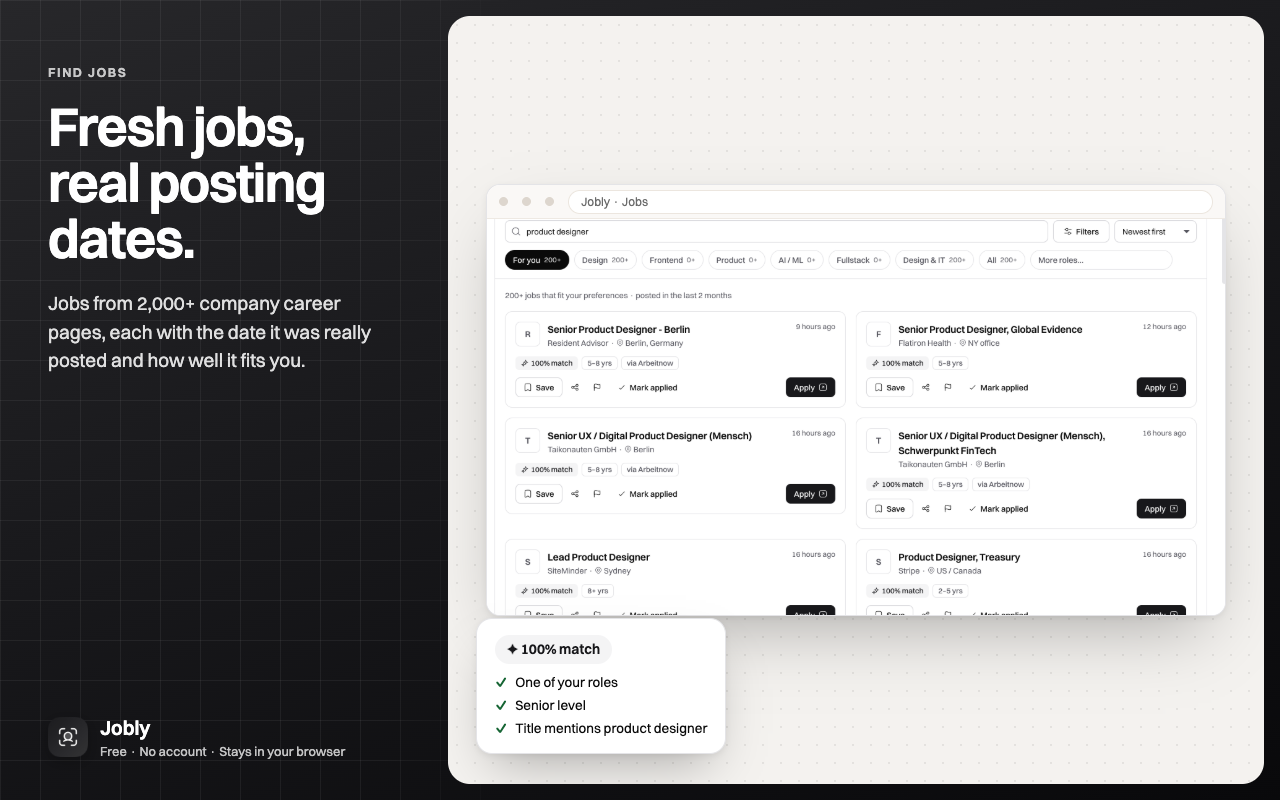
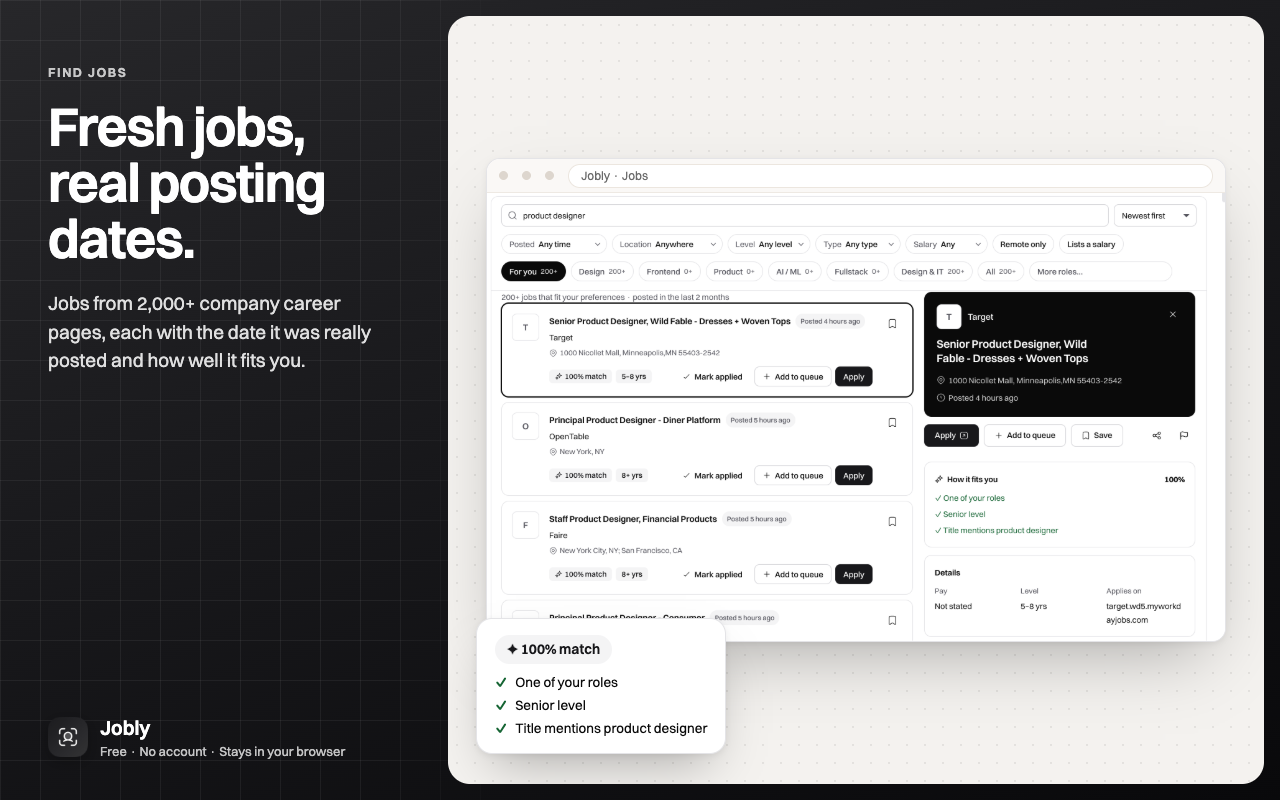
Jobly 1.5.0: store packet, screenshots, privacy for the apply queue
- Version 1.5.0; store-assets/jobly-extension-1.5.0.zip; docs/store-listing-1.5.md
- Store screenshots v1.5: jobs, apply queue, apply assist, resume ATS check, people
- Website tour images from the new screens; privacy and security pages cover the apply queue's site access
- Job cards: actions in a bottom row so titles don't wrap early
- Apply queue: changes run one at a time; a page that fails to load stops with a reason

diff --git a/extension/src/background/service-worker.ts b/extension/src/background/service-worker.ts
@@ -307,7 +307,12 @@ const QUEUE_ALARM = 'jobly-apply-queue';
 const MAX_OPEN = 6;          // application tabs open at once (being prepared + waiting for the user)
 const STALE_MS = 75_000;     // no word from a tab this long while opening or reading: no form there
 
-async function patchQueue(match: (x: QueueItem) => boolean, patch: Partial<QueueItem>): Promise<QueueItem | null> {
+// Every change to the queue runs one after another: two tabs reporting at once must not overwrite each other
+let queueLock: Promise<unknown> = Promise.resolve();
+const locked = <T>(fn: () => Promise<T>): Promise<T> => { const run = queueLock.then(fn, fn); queueLock = run.catch(() => undefined); return run; };
+
+const patchQueue = (match: (x: QueueItem) => boolean, patch: Partial<QueueItem>) => locked(() => patchQueueNow(match, patch));
+async function patchQueueNow(match: (x: QueueItem) => boolean, patch: Partial<QueueItem>): Promise<QueueItem | null> {
   const list = await loadQueue();
   const i = list.findIndex(match);
   if (i < 0) return null;
@@ -318,7 +323,8 @@ async function patchQueue(match: (x: QueueItem) => boolean, patch: Partial<Queue
   return next;
 }
 
-async function pumpQueue(): Promise<void> {
+const pumpQueue = () => locked(pumpQueueNow);
+async function pumpQueueNow(): Promise<void> {
   if (!(await readKey<boolean>(QUEUE_RUN))) return;
   const list = await loadQueue();
   const active = list.filter((x) => ACTIVE.includes(x.state)).length;
@@ -330,20 +336,26 @@ async function pumpQueue(): Promise<void> {
     if (slots <= 0) break;
     const origin = `${new URL(item.url).origin}/*`;
     if (!(await chrome.permissions.contains({ origins: [origin] }))) {
-      await patchQueue((x) => x.id === item.id, { state: 'stopped', note: 'Jobly needs your OK to open this site. Press Start again.' });
+      await patchQueueNow((x) => x.id === item.id, { state: 'stopped', note: 'Jobly needs your OK to open this site. Press Start again.' });
       continue;
     }
     // A blank tab first, then the job: Jobly knows the tab before its page starts loading
     const tab = await chrome.tabs.create({ url: 'about:blank', active: false });
-    await patchQueue((x) => x.id === item.id, { state: 'opening', note: '', tabId: tab.id ?? null, needs: [], filled: 0 });
-    if (tab.id != null) await chrome.tabs.update(tab.id, { url: item.url });
+    await patchQueueNow((x) => x.id === item.id, { state: 'opening', note: '', tabId: tab.id ?? null, needs: [], filled: 0 });
+    if (tab.id != null) {
+      // let the blank tab settle before it loads the job page
+      for (let i = 0; i < 10; i++) { const t = await chrome.tabs.get(tab.id).catch(() => null); if (!t || t.status === 'complete') break; await new Promise((r) => setTimeout(r, 100)); }
+      await new Promise((r) => setTimeout(r, 300));
+      await chrome.tabs.update(tab.id, { url: item.url }).catch(() => null);
+    }
     slots--;
   }
   if (!(await chrome.alarms.get(QUEUE_ALARM))) await chrome.alarms.create(QUEUE_ALARM, { periodInMinutes: 0.5 });
 }
 
 /** Tabs that went quiet: nothing to fill there. */
-async function checkQueue(): Promise<void> {
+const checkQueue = () => locked(checkQueueNow);
+async function checkQueueNow(): Promise<void> {
   const list = await loadQueue();
   const now = Date.now();
   let changed = false;
@@ -353,7 +365,7 @@ async function checkQueue(): Promise<void> {
     }
   }
   if (changed) await storeQueue(list);
-  await pumpQueue();
+  await pumpQueueNow();
 }
 
 async function injectAuto(tabId: number, itemId: string): Promise<void> {
@@ -368,7 +380,12 @@ async function injectAuto(tabId: number, itemId: string): Promise<void> {
 }
 
 chrome.tabs.onUpdated.addListener((tabId, info, tab) => {
-  if (info.status !== 'complete' || !/^https?:/.test(tab.url ?? '')) return;
+  if (info.status !== 'complete') return;
+  if (/^chrome-error:/.test(tab.url ?? '')) {
+    void patchQueue((x) => x.tabId === tabId && ACTIVE.includes(x.state), { state: 'stopped', note: "The page didn't load. Check your connection and use Try again." }).then((x) => { if (x) void pumpQueue(); });
+    return;
+  }
+  if (!/^https?:/.test(tab.url ?? '')) return;
   void loadQueue().then(async (list) => {
     const item = list.find((x) => x.tabId === tabId && (ACTIVE.includes(x.state) || WAITING.includes(x.state)));
     if (!item) return;

diff --git a/extension/src/components/JobCard.tsx b/extension/src/components/JobCard.tsx
@@ -102,7 +102,8 @@ export const JobCard: React.FC<JobCardProps> = ({ job, onToggleSave, onSelect, s
             {job.work_mode && WORK_MODE[job.work_mode] && <span>{WORK_MODE[job.work_mode]}</span>}
             {salary && <span><Briefcase size={13} aria-hidden="true" /> {salary}</span>}
           </p>
-          <div className="job-tags">
+          <div className="job-foot">
+            <div className="job-tags">
             {match
               ? <span className={`badge match-badge ${match.percent >= 75 ? 'badge-brand' : match.percent >= 50 ? 'match-mid' : 'badge-outline'}`} title={matchTip}
                   aria-label={`${match.percent}% match: ${match.reasons.map((r) => r.label).join(', ')}`}><Sparkles size={12} duo aria-hidden="true" /> {match.percent}% match</span>
@@ -111,14 +112,7 @@ export const JobCard: React.FC<JobCardProps> = ({ job, onToggleSave, onSelect, s
             {job.employment_type && EMPLOYMENT_LABELS[job.employment_type] && <span className="badge badge-soft">{EMPLOYMENT_LABELS[job.employment_type]}</span>}
             {job.experience_tier && EXPERIENCE_LABELS[job.experience_tier] && <span className="badge badge-soft">{EXPERIENCE_LABELS[job.experience_tier]}</span>}
           </div>
-        </div>
-        <div className="job-side">
-          <button type="button" className={`btn btn-ghost btn-sm btn-icon${job.is_saved ? ' is-on' : ''}`} onClick={() => onToggleSave(job)} aria-pressed={job.is_saved}
-            aria-label={`${job.is_saved ? 'Remove from saved' : 'Save'}: ${job.title} at ${job.company_name}`} title={job.is_saved ? 'Saved' : 'Save'}>
-            {job.is_saved ? <BookmarkCheck size={16} aria-hidden="true" /> : <Bookmark size={16} aria-hidden="true" />}
-          </button>
-          <span className="grow" />
-          <div className="row" style={{ gap: 6 }}>
+            <div className="job-actions">
             {tracker && !FEATURES.tracker && (
               <button type="button" className={`btn btn-sm mark-applied ${applied ? 'btn-toggled' : 'btn-ghost'}`} onClick={() => void toggleApplied()} aria-pressed={applied}
                 title={applied ? 'You applied. Click to undo' : 'Mark applied'} aria-label={`${applied ? 'Applied' : 'Mark applied'}: ${job.title} at ${job.company_name}`}>
@@ -131,6 +125,13 @@ export const JobCard: React.FC<JobCardProps> = ({ job, onToggleSave, onSelect, s
                   aria-label={`Apply to ${job.title} at ${job.company_name}${applyHost ? ` (opens ${applyHost})` : ''}`}>Apply</a>
               : <span className="btn btn-secondary btn-sm" aria-disabled="true">Link unavailable</span>}
           </div>
+          </div>
+        </div>
+        <div className="job-side">
+          <button type="button" className={`btn btn-ghost btn-sm btn-icon${job.is_saved ? ' is-on' : ''}`} onClick={() => onToggleSave(job)} aria-pressed={job.is_saved}
+            aria-label={`${job.is_saved ? 'Remove from saved' : 'Save'}: ${job.title} at ${job.company_name}`} title={job.is_saved ? 'Saved' : 'Save'}>
+            {job.is_saved ? <BookmarkCheck size={16} aria-hidden="true" /> : <Bookmark size={16} aria-hidden="true" />}
+          </button>
           <span role="status" className="text-xs muted card-note">{shareNote}</span>
         </div>
       </article>

diff --git a/extension/src/styles/index.css b/extension/src/styles/index.css
@@ -795,12 +795,14 @@ fieldset.profile-card > legend { padding: 0 var(--space-1); }
 .job-company { margin: 0; font-size: var(--text-sm); color: var(--foreground); }
 .job-meta { margin: 0; display: flex; flex-wrap: wrap; gap: 4px 14px; font-size: var(--text-xs); color: var(--muted-foreground); }
 .job-meta span { display: inline-flex; align-items: center; gap: 4px; }
-.job-tags { display: flex; flex-wrap: wrap; gap: 6px; margin-top: 6px; }
+.job-foot { display: flex; flex-wrap: wrap; align-items: center; justify-content: space-between; gap: var(--space-2) var(--space-3); margin-top: 8px; }
+.job-tags { display: flex; flex-wrap: wrap; gap: 6px; }
+.job-actions { display: flex; flex-wrap: wrap; gap: 6px; margin-left: auto; }
 .badge-soft { background: var(--muted); border-color: transparent; color: var(--foreground); }
 .job-side { display: flex; flex-direction: column; align-items: flex-end; gap: var(--space-2); min-width: 0; }
 .job-side .is-on { color: var(--foreground); }
 .job-side .card-note { min-height: 0; text-align: right; }
-@media (max-width: 760px) { .job-row { grid-template-columns: auto minmax(0, 1fr); } .job-side { grid-column: 1 / -1; flex-direction: row; align-items: center; } }
+
 .job-detail { position: sticky; top: var(--space-4); max-height: calc(100vh - 120px); overflow-y: auto; display: flex; flex-direction: column; gap: var(--space-3); padding: 2px; }
 .jd-hero { display: flex; flex-direction: column; gap: var(--space-3); padding: var(--space-5); border-radius: var(--radius-lg); background: var(--foreground); color: var(--background); }
 .jd-hero .logo { width: 40px; height: 40px; }

diff --git a/docs/store-listing-1.5.md b/docs/store-listing-1.5.md
@@ -1,0 +1,185 @@
+# Chrome Web Store: Jobly 1.5.0
+
+Everything to paste into the Chrome Web Store developer dashboard, tab by tab. Version 1.5.0 replaces the 1.4.0 packet. If 1.4.0 is still in review, upload 1.5.0 as the next version; if 1.4.0 was never submitted, submit 1.5.0 instead.
+
+## What changed from 1.4
+
+- **Apply queue (new Applications page).** Add jobs to a queue. Press Start and Jobly opens each one in a background tab. It presses the page's own Apply link if the form is behind it, then fills the form from the profile, the resume file and saved answers. It lists the questions it couldn't answer under "Needs your input" and stops. The user checks the form and presses Submit, and the job moves to Applied. Jobly never presses Submit or Next, never signs in, and never creates accounts on hiring sites.
+- **Site access only when asked.** The queue needs to open the job sites in it. Chrome asks for access to just those sites when the user presses Start. This is the new optional `https://*/*` host permission; nothing is granted at install.
+- **New Jobs page.** Filter pills, cleaner job cards with "Add to queue", and the chosen job open in a panel beside the list, with fit, details and the full description.
+- **Resume.**
+  - 8 templates, all one column, so every one reads cleanly in an applicant tracking system. The new Engineer template is a classic tech resume.
+  - Projects, achievements, grouped skills and **bold** words in points.
+  - A score in five parts with the top fixes, and an ATS check of what a hiring system reads. Rules only, no AI.
+  - Tailor to a pasted job description on the same page.
+  - A clean one-page PDF with no browser header or footer.
+  - The page is now in three tabs: Design, Tailor to a job, and Score and ATS.
+- **Cover letters.** Seven structures, three tones, three lengths, optional personal details, a letter check and a clean PDF.
+- **People.** Find public profiles with the user's own Brave Search key, and see who works at a company with the user's own Apollo key, as well as Hunter. These are official APIs; nothing is scraped.
+- **Look.** Black, white and greys across the extension.
+- **Jobs.** "Best match first" sorting, and better country detection for job locations.
+
+## Package
+
+Upload `store-assets/jobly-extension-1.5.0.zip` (30 files, 1.5.0). To rebuild it, run `npm run build` in `extension/`, then zip the contents of `extension/dist` without `.map` files.
+
+| Field | Text |
+| --- | --- |
+| Name | `Jobly — Find jobs. Apply smarter` |
+| Summary (121 of 132 characters) | `Fresh jobs from company career pages, an apply queue that fills forms for you to check and submit, and ATS-ready resumes.` |
+
+## Store listing tab
+
+**Description**
+```
+Jobly finds fresh jobs on company career pages, with the date each one was really posted, and helps you apply. Free, no account, and everything stays in your browser.
+
+FIND JOBS
+• Real posting dates from the employer's own hiring system; nothing older than 60 days
+• Jobs from 2,000+ companies, including Y Combinator startups and 300+ companies hiring in India
+• Product design, frontend, product management, AI/ML and fullstack, plus backend, mobile, DevOps, QA, security, data, sales, marketing and more
+• Filters for date posted, location, level, job type and salary, and best match first
+• Open any job beside the list: how it fits you, pay, level and the full description
+• Alerts for new matches, and for every new job at companies you follow
+
+APPLY QUEUE
+• Add jobs to your queue and press Start
+• Jobly opens each job in a background tab, finds the application form and fills it from your profile, your resume file and answers you saved
+• Questions it can't answer are collected in one place; what you type there is saved for the next form
+• It stops before Submit: you check each form and press Submit yourself
+• Jobly never signs in for you, never creates accounts on hiring sites and never solves CAPTCHAs
+• Chrome asks you for access to just the sites in your queue, when you press Start
+
+APPLY ASSIST
+• On any application page, a Jobly panel fills each step from your profile after you approve the answers
+• Every answer shows where it came from, and questions only you can answer are marked
+
+RESUMES AND COVER LETTERS
+• Set up your profile in a minute: import the PDF LinkedIn makes of your profile, or your resume
+• 8 one-column templates that read cleanly in applicant tracking systems, with projects, achievements and grouped skills
+• A resume score in five parts with the fixes that matter most, and an ATS check of what a hiring system reads
+• Tailor your resume to a pasted job description: the skills and points the job asks for come first; nothing is made up
+• A clean one-page PDF, or a Word file
+• Cover letters in seven structures, three tones and three lengths, with a check before you send
+• Optional AI rewording with Chrome's built-in AI, or Claude with your own key; every line is checked against your profile
+
+PEOPLE
+• Find recruiters and hiring managers with your own Hunter, Brave Search or Apollo key, and draft outreach messages
+• Keep references and contacts with the jobs they belong to
+
+PRIVATE BY DESIGN
+• No account, no server, no tracking, no ads
+• Your searches, saved and applied jobs, profiles, resumes and contacts stay in your browser; optional sync uses your own Chrome account
+• Back up everything to one file, restore it, or import a spreadsheet of applications
+• Imported PDFs are read in your browser and never uploaded
+
+GOOD TO KNOW
+• Apply opens the original listing, usually the employer's own careers page
+• Jobly isn't affiliated with the employers it lists
+
+Free. Learn more at https://jobly-88t.pages.dev
+```
+
+**Category:** Productivity.
+
+**Language:** English.
+
+### Graphic assets
+
+| Asset | Size | File |
+| --- | --- | --- |
+| Store icon | 128×128 | `store-assets/screenshots/ready/store-icon-128x128.png` |
+| Screenshots (5) | 1280×800 | `store-assets/screenshots/v1.5/` |
+| Small promo tile | 440×280 | `store-assets/screenshots/ready/promo-tile-1-440x280.png` |
+
+### Screenshot content
+
+The jobs in shot 1 are real listings from Jobly's job data. Everything else is made up: Ananya Rao is a demo profile, and the queued companies (Globex, Initech, Hooli, Acme, Northwind Labs, Umbrella) and the application form in shot 3 are demo pages.
+
+| # | File | Headline | What it shows |
+| --- | --- | --- | --- |
+| 1 | `1-jobs.png` | Fresh jobs, real posting dates. | The Jobs page: filter pills, job cards with Add to queue, the chosen job open beside the list |
+| 2 | `2-apply-queue.png` | Queue the jobs. Jobly fills them. | Applications: Needs your input and the board from Queue to Submitted |
+| 3 | `3-apply-assist.png` | You approve. Jobly fills. You submit. | The apply assist panel on a demo application form |
+| 4 | `4-resume.png` | A resume that reads cleanly. | Resume: the ATS check, the score and the page |
+| 5 | `5-people.png` | Reach the people who hire. | People: who to look for at a company, and saved people |
+
+### Additional fields
+
+| Field | Value |
+| --- | --- |
+| Official URL | Leave empty (it needs a verified domain you own) |
+| Homepage URL | `https://jobly-88t.pages.dev` |
+| Support URL | `https://jobly-88t.pages.dev/support` |
+| Mature content | No |
+
+## Privacy practices tab
+
+**Single purpose**
+```
+Jobly helps people find and apply for jobs: it lists recent jobs from company career pages with their real posting dates, alerts the user to new matches, and helps them complete applications (profile import, an apply queue and apply assist that fill forms for the user to check and submit, saved and applied lists, resumes and cover letters tailored to a job description).
+```
+
+**Permission justifications**
+
+| Permission | Justification |
+| --- | --- |
+| `storage` | Keeps the user's preferences, saved and applied jobs, alerts, apply queue, resume profiles, saved form answers, contacts and optional API keys on their device. They go to Chrome sync only if the user turns sync on. |
+| `notifications` | Shows a desktop notification for new matching jobs, and confirms when the user saves a job with the right-click menu. Job alerts can be switched off. |
+| `alarms` | Schedules the background check for new jobs (every 60 to 90 minutes), and checks every 30 seconds whether an apply-queue tab has stopped responding, but only while the queue is running. |
+| `activeTab` | When the user clicks Save, Fit check or Start apply assist, or uses the right-click menu, Jobly reads the job page in that one tab or opens its apply assist panel there. |
+| `scripting` | Runs Jobly's packaged page-reading code and its packaged apply assist panel (assist.js). It runs in the active tab after the user clicks, and in apply-queue tabs on sites the user granted when pressing Start. Jobly has no content scripts that run on their own. |
+| `contextMenus` | Adds "Save this job to Jobly" to the page's right-click menu. |
+| Host `https://jobly-data.pages.dev/*` | Reads Jobly's public job list, published as static files. Nothing is sent to it except the request for those files. |
+| Optional host `https://*/*` | Requested only when the user presses Start on the apply queue, and only for the sites of the jobs in their queue (for example `https://boards.greenhouse.io/*`). Jobly opens those job pages in background tabs and fills the application form with the user's profile for them to check and submit. Nothing is granted at install, and no other site is accessed. |
+| Optional host `https://api.hunter.io/*` | Requested only when the user searches for contacts with their own Hunter API key. |
+| Optional host `https://api.search.brave.com/*` | Requested only when the user searches for public profiles with their own Brave Search API key. |
+| Optional host `https://api.apollo.io/*` | Requested only when the user looks up who works at a company with their own Apollo API key. |
+
+**Remote code:** No, I am not using remote code. assist.js is packaged in the zip. Optional AI calls to api.anthropic.com send text and receive text; no code is downloaded or run.
+
+**Data usage** (read Google's current wording before ticking)
+- **Personally identifiable information:** yes. The user types or imports a profile from their own LinkedIn or resume PDF, read on the device: name, email, phone and work history. It is stored on their device and used to fill application forms. In the apply queue, forms are filled automatically on sites the user granted; the user checks every form and presses Submit themselves. Answers the user types are saved on the device, except sensitive questions.
+- **Authentication information:** yes. The user may store their own Hunter, Brave Search, Apollo and Anthropic API keys on their device. Each key is used only to call that service from the browser. Jobly never stores passwords for hiring sites.
+- **Website content:** yes. Jobly reads the job page in the active tab when the user clicks, and the application pages in apply-queue tabs on sites the user granted (title, company, form questions), to save the job, check fit or fill its form.
+- **User activity:** no. Searches and filters run in the browser on the downloaded job files. Jobly has no server and sends them nowhere.
+- **Personal communications / other:** no.
+- Note for the form: some data goes to third parties at the user's request, with the user's own keys. These are app functionality, chosen by the user.
+  - With Claude turned on, the profile text needed for a rewrite and the pasted job description go to Anthropic.
+  - A people search sends the company name and the role searched for to Brave Search or Apollo.
+- Everything else: no.
+- Usage: app functionality only. Not sold, not used for anything unrelated, not for credit.
+- Tick all three certifications.
+
+**Privacy policy URL:** `https://jobly-88t.pages.dev/privacy`
+
+## Distribution tab
+
+| Field | Value |
+| --- | --- |
+| Payments | Free of charge |
+| Visibility | Public |
+| Regions | All regions |
+
+## Test instructions (for the reviewer)
+```
+No sign-in is needed.
+1. Open the popup, finish the welcome tour, and jobs appear. Open the dashboard (popup header icon). On Jobs, click a job card: it opens in the panel on the right.
+2. Profile: press "Set up your profile" and import any PDF resume, or fill in the steps by hand.
+3. Apply queue: on a few job cards press "Add to queue", then open Applications and press Start. Chrome asks for access to just those job sites; allow it. Jobly opens each job in a background tab, fills what it knows and stops. Unanswered questions appear under "Needs your input". Open a tab with "Review and submit" to check the form. Jobly never presses Submit; you may close the tab instead of submitting.
+4. Apply assist: on any application page (for example a Greenhouse or Lever posting), open the popup, go to Apply and press "Start apply assist".
+5. Resume: pick a template on Design, paste any job description on "Tailor to a job" and press "Apply to my resume", then see "Score and ATS". Download PDF saves a clean one-page PDF.
+6. Cover letters, People and Companies work without keys; Hunter, Brave Search, Apollo and Claude are optional and need the reviewer's own keys.
+```
+
+## Checklist
+1. Upload `store-assets/jobly-extension-1.5.0.zip`.
+2. Store listing: paste the summary and description, and upload the five screenshots from `v1.5/`. Keep the icon and the promo tile.
+3. Privacy practices:
+   - Update the single purpose.
+   - Add the justifications for the new optional hosts: `https://*/*`, Brave Search and Apollo.
+   - Update the alarms and scripting justifications.
+   - Remote code stays "No".
+   - Update data usage.
+4. Distribution: free, public, all regions.
+5. Paste the test instructions, then submit for review. The optional `https://*/*` access may mean a longer review.

diff --git a/web/src/content/docs/privacy.md b/web/src/content/docs/privacy.md
@@ -2,7 +2,7 @@
 title: Privacy policy
 eyebrow: Privacy
 description: What Jobly keeps on your device, what it downloads, and what it never collects. No account, no analytics, no tracking.
-updated: 2026-11-12
+updated: 2026-11-13
 figure: padlock
 ---
 
@@ -48,6 +48,16 @@ The extension can read a web page only when you ask, and only the tab you're on:
 - **Autofill** lists the form's questions, shows you its proposed answers from your profile, and fills only the ones you approve. It never presses Submit, and never touches password fields.
 
 This happens in your browser. Nothing read from the page leaves it. Chrome grants this access for that one tab when you click (the "activeTab" permission), so Jobly can't read pages in the background.
+
+## The apply queue
+
+When you add jobs to your apply queue and press Start, Jobly asks Chrome for access to just the sites those jobs are on (for example the employer's hiring system). Then, for each job:
+
+- it opens the job in a background tab, and presses the page's own Apply link if the form sits behind it;
+- it reads the form's questions and fills them from your profile, your resume file and answers you saved, never replacing something already on the page;
+- it lists what it couldn't answer, and stops. You check the form and press Submit yourself.
+
+Jobly never presses Submit or Next, never signs in for you, never creates accounts on hiring sites, never stores their passwords and never solves CAPTCHAs. What it reads from these pages stays in your browser. The queue itself (job titles, companies, links, how far each got) is kept on your device. You can remove the site access any time in Chrome's extension settings.
 
 ## Optional connections
 
@@ -123,10 +133,11 @@ You can ask us what we hold about you, to correct it, or to delete it. Because w
 - **storage:** keep the items above on your device (and in Chrome sync, if you turn it on).
 - **notifications:** show job alerts, and confirm when you save a job with the right-click menu.
 - **alarms:** check for new jobs every so often in the background.
-- **activeTab and scripting:** read the page you're on when you click Save or Fit check, and open the apply assist panel on it when you click Start apply assist. The panel fills only the answers you approve and never presses Submit.
+- **activeTab and scripting:** read the page you're on when you click Save or Fit check, and open the apply assist panel on it when you click Start apply assist. The panel fills only the answers you approve and never presses Submit. In apply-queue tabs, the same panel fills the form on sites you allowed.
 - **contextMenus:** the right-click "Save this job to Jobly" item.
 - **Access to jobly-data.pages.dev:** download Jobly's public job files.
 - **Optional access to Brave Search, Apollo and Hunter:** each requested the first time you use it; nothing is requested otherwise.
+- **Optional access to job sites:** asked for only when you press Start on the apply queue, and only for the sites of the jobs in it.
 
 The [security page](/security) has the full permission list and how data moves.
 

diff --git a/web/src/content/docs/security.md b/web/src/content/docs/security.md
@@ -6,7 +6,7 @@ updated: 2026-11-12
 figure: vault
 ---
 
-> **The short version.** Jobly has no server: it downloads public job files and filters them in your browser. It reads the page you're on only when you click Save, Fit check or Autofill, and only that tab. The optional Brave Search, Apollo and Hunter searches are each asked for the first time you use them. Everything personal stays in your browser.
+> **The short version.** Jobly has no server: it downloads public job files and filters them in your browser. It reads the page you're on only when you click Save, Fit check or Autofill, and only that tab. The optional Brave Search, Apollo and Hunter searches are each asked for the first time you use them, and the apply queue asks for just the job sites in it when you press Start. Everything personal stays in your browser.
 
 ## Permissions
 
@@ -20,6 +20,7 @@ These are all the permissions in Jobly's manifest. Chrome shows them when you in
 | `activeTab` + `scripting` | Read or fill the tab you're on when you click Save, Fit check or Autofill | Touch any other tab, or any page you didn't click on |
 | `contextMenus` | Add "Save this job to Jobly" to the right-click menu | Do anything until you choose it |
 | `https://jobly-data.pages.dev/*` | Download Jobly's public job files | Reach any other website |
+| Optional: `https://*/*` (per site) | The apply queue: open and fill the job pages in your queue, asked for only those sites when you press Start | Any site you didn't queue, pressing Submit, signing in |
 | Optional: `https://api.search.brave.com/*` | Profile search, asked for the first time you use it | Anything before you allow it |
 | Optional: `https://api.apollo.io/*` | Who works at a company, asked for the first time you use it | Anything before you allow it |
 | Optional: `https://api.hunter.io/*` | Contact search, asked for the first time you use it | Anything before you allow it |
